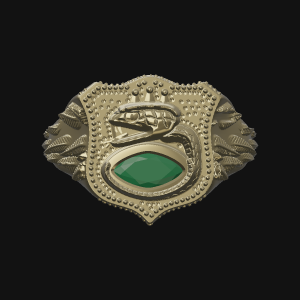
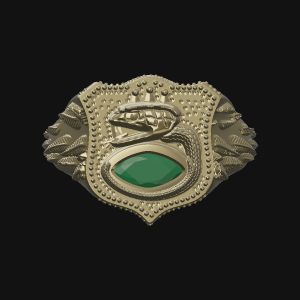
Basiliscus round 3: dorsal scales sized to the girth
The coil's scales now take a fixed share of the girth (0.36, bounded to
0.25-0.55 mm) and are counted down the spine by the integral of one over
their length, so every station carries the same rows and the outer
flank no longer shows half-faded scales as dashes. The belly lies on the
field; its scutes are on the palm, so the lap onto the boss carries the
same scales as the rest of the body.

Gates pass at 768 x 320, 1536 x 448 (1,799,184 triangles) and 384 x 192;
template 1,550,359 bytes, 0 patches, 0 detail findings.

Claude-Session: https://claude.ai/code/session_01DhhBfxWFhPAaJd3cVZw2HV

Changed region(s): [[0.45, 0.42, 0.66, 0.66], [0.33, 0.54, 0.36, 0.6]]

diff --git a/crates/ringdesign-core/examples/bestiarium_basiliscus.rs b/crates/ringdesign-core/examples/bestiarium_basiliscus.rs
@@ -588,9 +588,15 @@ fn open_spline(ctrl: &[P2], per: usize) -> Vec<P2> {
 struct Body {
     spine: Vec<P2>,
     at: Vec<f64>,
+    /// How many scales down the spine each vertex lies: the integral of one over the scale's length, which shrinks with
+    /// the girth, so the rows stay continuous as the body tapers.
+    phase: Vec<f64>,
     lo: P2,
     hi: P2,
 }
+
+/// A dorsal scale's width across the body, as a share of the girth, and its bounds, mm; and its length over its width.
+const SCALE_CELL: (f64, f64, f64, f64) = (0.36, 0.25, 0.55, 1.37);
 
 impl Body {
     fn new() -> Self {
@@ -601,7 +607,27 @@ impl Body {
         }
         let lo = [spine.iter().map(|p| p[0]).fold(f64::MAX, f64::min) - GIRTH.0, spine.iter().map(|p| p[1]).fold(f64::MAX, f64::min) - GIRTH.0];
         let hi = [spine.iter().map(|p| p[0]).fold(f64::MIN, f64::max) + GIRTH.0, spine.iter().map(|p| p[1]).fold(f64::MIN, f64::max) + GIRTH.0];
-        Self { spine, at, lo, hi }
+        let mut me = Self { spine, at, phase: Vec::new(), lo, hi };
+        me.phase = vec![0.0];
+        for w in me.at.windows(2) {
+            let step = (w[1] - w[0]) / (SCALE_CELL.3 * me.scale_width(0.5 * (w[0] + w[1])));
+            me.phase.push(me.phase.last().unwrap() + step);
+        }
+        me
+    }
+
+    /// A dorsal scale's width across the body at `s` along the spine, mm: a fixed share of the girth, so every station
+    /// carries the same rows, bounded so the neck's are not coarse and the tail's stay above the detail floor.
+    fn scale_width(&self, s: f64) -> f64 {
+        (SCALE_CELL.0 * self.girth(s)).clamp(SCALE_CELL.1, SCALE_CELL.2)
+    }
+
+    /// Scales counted down the spine to `s`.
+    fn phase_at(&self, s: f64) -> f64 {
+        let i = self.at.partition_point(|&a| a < s).clamp(1, self.at.len() - 1);
+        let (a, b) = (self.at[i - 1], self.at[i]);
+        let t = ((s - a) / (b - a).max(1e-12)).clamp(0.0, 1.0);
+        self.phase[i - 1] + (self.phase[i] - self.phase[i - 1]) * t
     }
 
     fn length(&self) -> f64 {
@@ -659,8 +685,8 @@ impl Body {
     }
 
     /// Painted body height, mm: a raised-cosine crown over a low plinth that gives the edge its line, and with `skin` the
-    /// keeled dorsal scales at full relief over the inner seven tenths of the half-girth, faded out by nine tenths, with
-    /// belly scutes down its inner side.
+    /// keeled dorsal scales, sized to the girth, at full relief over the inner seven tenths of the half-girth and faded out
+    /// by nine tenths. The belly lies on the field; its scutes are on the palm.
     fn height(&self, p: P2, skin: bool) -> f64 {
         let Some((d, s, lat)) = self.nearest(p) else { return 0.0 };
         let w = self.girth(s);
@@ -673,12 +699,8 @@ impl Body {
         if !skin {
             return plinth + 0.9 * dome;
         }
-        let across = lat / w;
-        let belly = smooth(-0.22, -0.42, across);
-        let scales = reptile::snake(s / 0.85, lat / 0.62);
-        let scutes = reptile::ventral(s / 0.6, ((across + 0.71) / 0.29).clamp(-1.0, 1.0));
-        let pattern = scales * (1.0 - belly) + scutes * belly;
-        plinth + 0.9 * dome + SCALE_RELIEF * pattern * (1.0 - smooth(0.7, 0.9, x))
+        let scales = reptile::snake(self.phase_at(s), lat / self.scale_width(s));
+        plinth + 0.9 * dome + SCALE_RELIEF * scales * (1.0 - smooth(0.7, 0.9, x))
     }
 }
 
@@ -1789,6 +1811,7 @@ fn author(params: BuildParams) -> Result<(RingDesign, AlphaLibrary, Value, Vec<V
     let composition = json!({
         "stone_mm": STONE, "seat_plan_mm": [SEAT_PLAN.0, SEAT_PLAN.1, SEAT_PLAN.2], "stone_boss_mm": STONE_BOSS, "coil_lap_on_seat_mm": LAP,
         "spine_mm": arms.body.length(), "girth_mm": [GIRTH.0, GIRTH.1], "body_crown_mm": DOME, "body_scale_relief_mm": SCALE_RELIEF,
+        "body_scale_width": {"share_of_girth": SCALE_CELL.0, "bounds_mm": [SCALE_CELL.1, SCALE_CELL.2], "length_over_width": SCALE_CELL.3},
         "body_crest_mm": crest, "body_outer_quarter_steepest_deg": steep,
         "crown_pearls_inside_chief_mm": pearls, "crown_points_mm": POINTS,
         "circlet_mm": {"width_across_the_ring": x_hi - x_lo, "plan_width": CIRCLET.2 + CIRCLET.3, "into_skull": CIRCLET.2, "sagitta": sagitta, "rise": CIRCLET.4},
